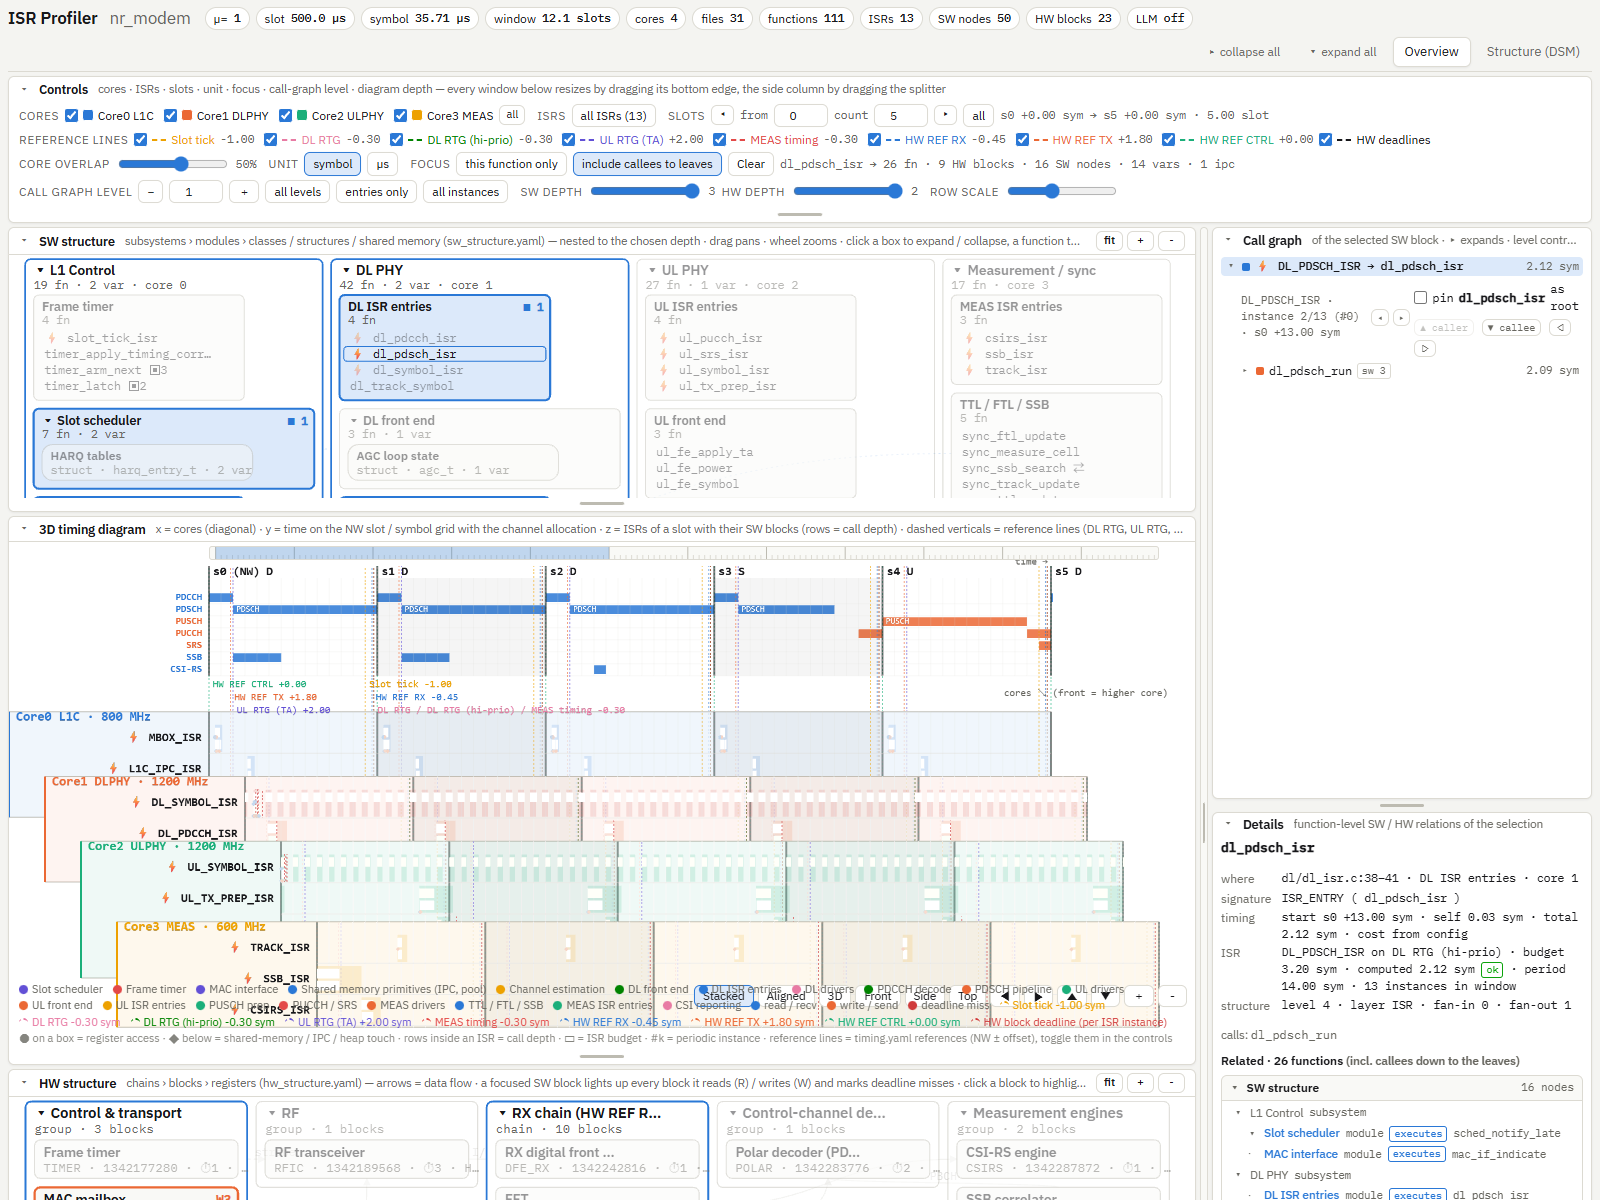
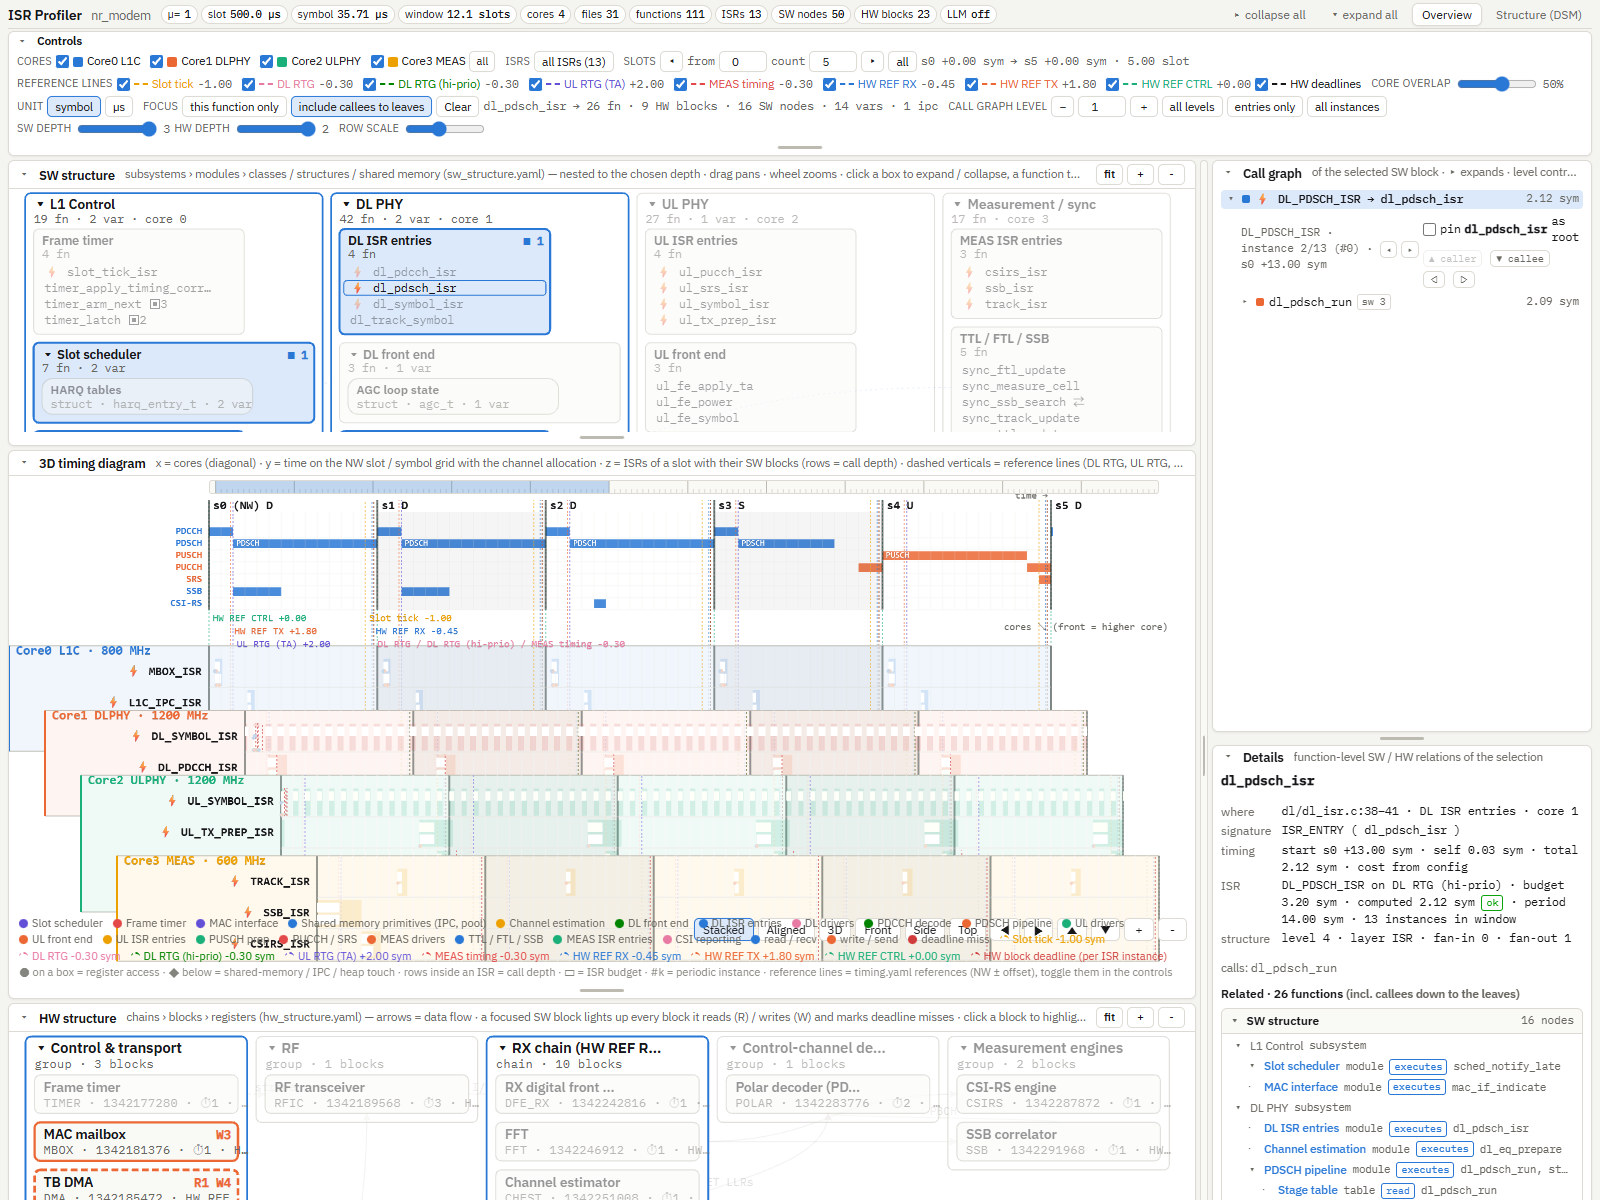
Compact header and controls bar

Changed region(s): [[0.0, 0.0, 1.0, 1.0]]

diff --git a/isrprof/templates/parts/00_head.html b/isrprof/templates/parts/00_head.html
@@ -30,24 +30,24 @@ body { background: var(--bg); color: var(--fg); font-family: var(--sans); font-s
 h1, h2, h3 { margin: 0; text-wrap: balance; font-weight: 600; }
 button, select, input { font: inherit; color: inherit; }
 code, .mono { font-family: var(--mono); font-size: 12px; }
-.top { display: flex; flex-wrap: wrap; align-items: center; gap: 6px 14px; padding-block: 6px 4px; border-bottom: 1px solid var(--line); }
-.top h1 { font-size: 17px; letter-spacing: -0.01em; }
-.top .sub { color: var(--muted); font-weight: 400; margin-left: 8px; }
-.chips { display: flex; flex-wrap: wrap; gap: 6px; }
-.chip { display: inline-flex; align-items: center; gap: 6px; padding: 2px 8px; border: 1px solid var(--line); border-radius: 999px; background: var(--panel); font-size: 12px; white-space: nowrap; }
-.chip b { font-weight: 500; font-family: var(--mono); font-size: 11.5px; }
+.top { display: flex; flex-wrap: wrap; align-items: center; gap: 4px 10px; padding-block: 3px 2px; border-bottom: 1px solid var(--line); }
+.top h1 { font-size: 14px; letter-spacing: -0.01em; }
+.top .sub { color: var(--muted); font-weight: 400; margin-left: 6px; font-size: 12.5px; }
+.chips { display: flex; flex-wrap: wrap; gap: 3px; }
+.chip { display: inline-flex; align-items: center; gap: 4px; padding: 0 6px; border: 1px solid var(--line); border-radius: 999px; background: var(--panel); font-size: 11px; line-height: 17px; white-space: nowrap; }
+.chip b { font-weight: 500; font-family: var(--mono); font-size: 10.5px; }
 .tabs { margin-left: auto; display: flex; gap: 4px; }
-.tabs button { background: transparent; border: 1px solid transparent; border-radius: 6px; padding: 5px 11px; cursor: pointer; color: var(--muted); }
+.tabs button { background: transparent; border: 1px solid transparent; border-radius: 6px; padding: 2px 9px; cursor: pointer; color: var(--muted); font-size: 12px; }
 .tabs button[aria-selected="true"] { background: var(--panel); border-color: var(--line); color: var(--fg); box-shadow: var(--shadow); }
-.controls { display: flex; flex-wrap: wrap; align-items: center; gap: 4px 12px; padding-block: 4px; }
-.controls .group { display: flex; align-items: center; gap: 6px; flex-wrap: wrap; }
-.controls label { color: var(--muted); font-size: 12px; text-transform: uppercase; letter-spacing: .04em; }
+.controls { display: flex; flex-wrap: wrap; align-items: center; gap: 2px 10px; padding-block: 2px; }
+.controls .group { display: flex; align-items: center; gap: 4px; flex-wrap: wrap; }
+.controls label { color: var(--muted); font-size: 10.5px; text-transform: uppercase; letter-spacing: .04em; }
 .controls .info { color: var(--muted); font-size: 11.5px; font-family: var(--mono); }
-.tog { border: 1px solid var(--line); background: var(--panel); border-radius: 6px; padding: 2px 8px; cursor: pointer; display: inline-flex; align-items: center; gap: 6px; font-size: 12px; }
+.tog { border: 1px solid var(--line); background: var(--panel); border-radius: 5px; padding: 1px 7px; cursor: pointer; display: inline-flex; align-items: center; gap: 5px; font-size: 11.5px; line-height: 17px; }
 .tog[aria-pressed="true"] { border-color: var(--accent); background: var(--accent-soft); }
 .tog .sw { width: 10px; height: 10px; border-radius: 2px; display: inline-block; }
 select.tog { padding-block: 3px; }
-input[type="range"] { vertical-align: middle; width: 110px; accent-color: var(--accent); }
+input[type="range"] { vertical-align: middle; width: 80px; accent-color: var(--accent); }
 .panel { background: var(--panel); border: 1px solid var(--line); border-radius: 6px; margin-top: 4px; box-shadow: var(--shadow); }
 .panel > summary { cursor: pointer; padding: 3px 10px; font-weight: 600; display: flex; align-items: center; gap: 10px; list-style: none; flex-wrap: nowrap; min-height: 22px; font-size: 12.5px; }
 .panel > summary::-webkit-details-marker { display: none; }
@@ -62,8 +62,11 @@ input[type="range"] { vertical-align: middle; width: 110px; accent-color: var(--
 .stack .panel { margin-top: 0; }
 .stack .panel .body.strip { padding: 4px 0 2px; }
 .strip .hint { padding-left: 8px; }
-.panel.ctl { margin-top: 4px; }
-.panel.ctl .body.controls { padding: 2px 10px 6px; }
+.panel.ctl { margin-top: 2px; }
+.panel.ctl > summary { padding: 1px 8px; min-height: 18px; font-size: 11.5px; }
+.panel.ctl > summary .hint { display: none; }
+.panel.ctl > summary:hover .hint { display: inline; }
+.panel.ctl .body.controls { padding: 0 8px 3px; }
 .stack .panel .body.scene-body { padding: 0; }
 #scene { position: relative; height: 640px; background: var(--panel); border: 0; border-top: 1px solid var(--line); border-radius: 0 0 8px 8px; overflow: hidden; touch-action: none; }
 #scene canvas { display: block; }
@@ -171,16 +174,16 @@ table.t tr.viol td { color: var(--critical); }
 .diagram .empty { padding: 14px; color: var(--muted); font-size: 12px; }
 .pz { margin-left: auto; display: inline-flex; gap: 4px; }
 .pz .tog { font-size: 11px; padding: 1px 7px; }
-.tog.num { width: 54px; text-align: center; }
+.tog.num { width: 48px; text-align: center; }
 
 /* checkbox groups, ISR popover, slot inputs */
 .checks { display: inline-flex; flex-wrap: wrap; gap: 4px 10px; }
 .checks.col { flex-direction: column; gap: 2px; }
-.checks label { display: inline-flex; align-items: center; gap: 5px; text-transform: none; letter-spacing: 0; font-size: 12px; color: var(--fg); cursor: pointer; white-space: nowrap; }
+.checks label { display: inline-flex; align-items: center; gap: 4px; text-transform: none; letter-spacing: 0; font-size: 11.5px; color: var(--fg); cursor: pointer; white-space: nowrap; }
 .checks input { accent-color: var(--accent); margin: 0; }
 .checks .sw { width: 10px; height: 10px; border-radius: 2px; display: inline-block; }
 .checks .dash, label.chk .dash { width: 14px; height: 0; border-top: 2px dashed currentColor; display: inline-block; background: none !important; }
-label.chk { display: inline-flex; align-items: center; gap: 5px; text-transform: none; letter-spacing: 0; font-size: 12px; color: var(--fg); cursor: pointer; }
+label.chk { display: inline-flex; align-items: center; gap: 4px; text-transform: none; letter-spacing: 0; font-size: 11.5px; color: var(--fg); cursor: pointer; }
 label.chk input { accent-color: var(--accent); margin: 0; }
 #legend .dash { display: inline-block; width: 14px; height: 0; border-top: 2px dashed currentColor; margin-right: 4px; vertical-align: 3px; }
 .tog.mini { padding: 1px 6px; font-size: 11px; }

diff --git a/isrprof/templates/parts/10_body.html b/isrprof/templates/parts/10_body.html
@@ -10,7 +10,7 @@
 </header>
 
 <details class="panel ctl" id="ctl-panel" open>
-<summary>Controls <span class="hint">cores · ISRs · slots · unit · focus · call-graph level · diagram depth — every window below resizes by dragging its bottom edge, the side column by dragging the splitter</span></summary>
+<summary>Controls <span class="hint">every window resizes by dragging its bottom edge, the side column by dragging the splitter</span></summary>
 <div class="body controls">
   <div class="group"><label>Cores</label><span id="core-toggles" class="checks"></span>
     <button class="tog mini" id="cores-all" title="show every core">all</button></div>
